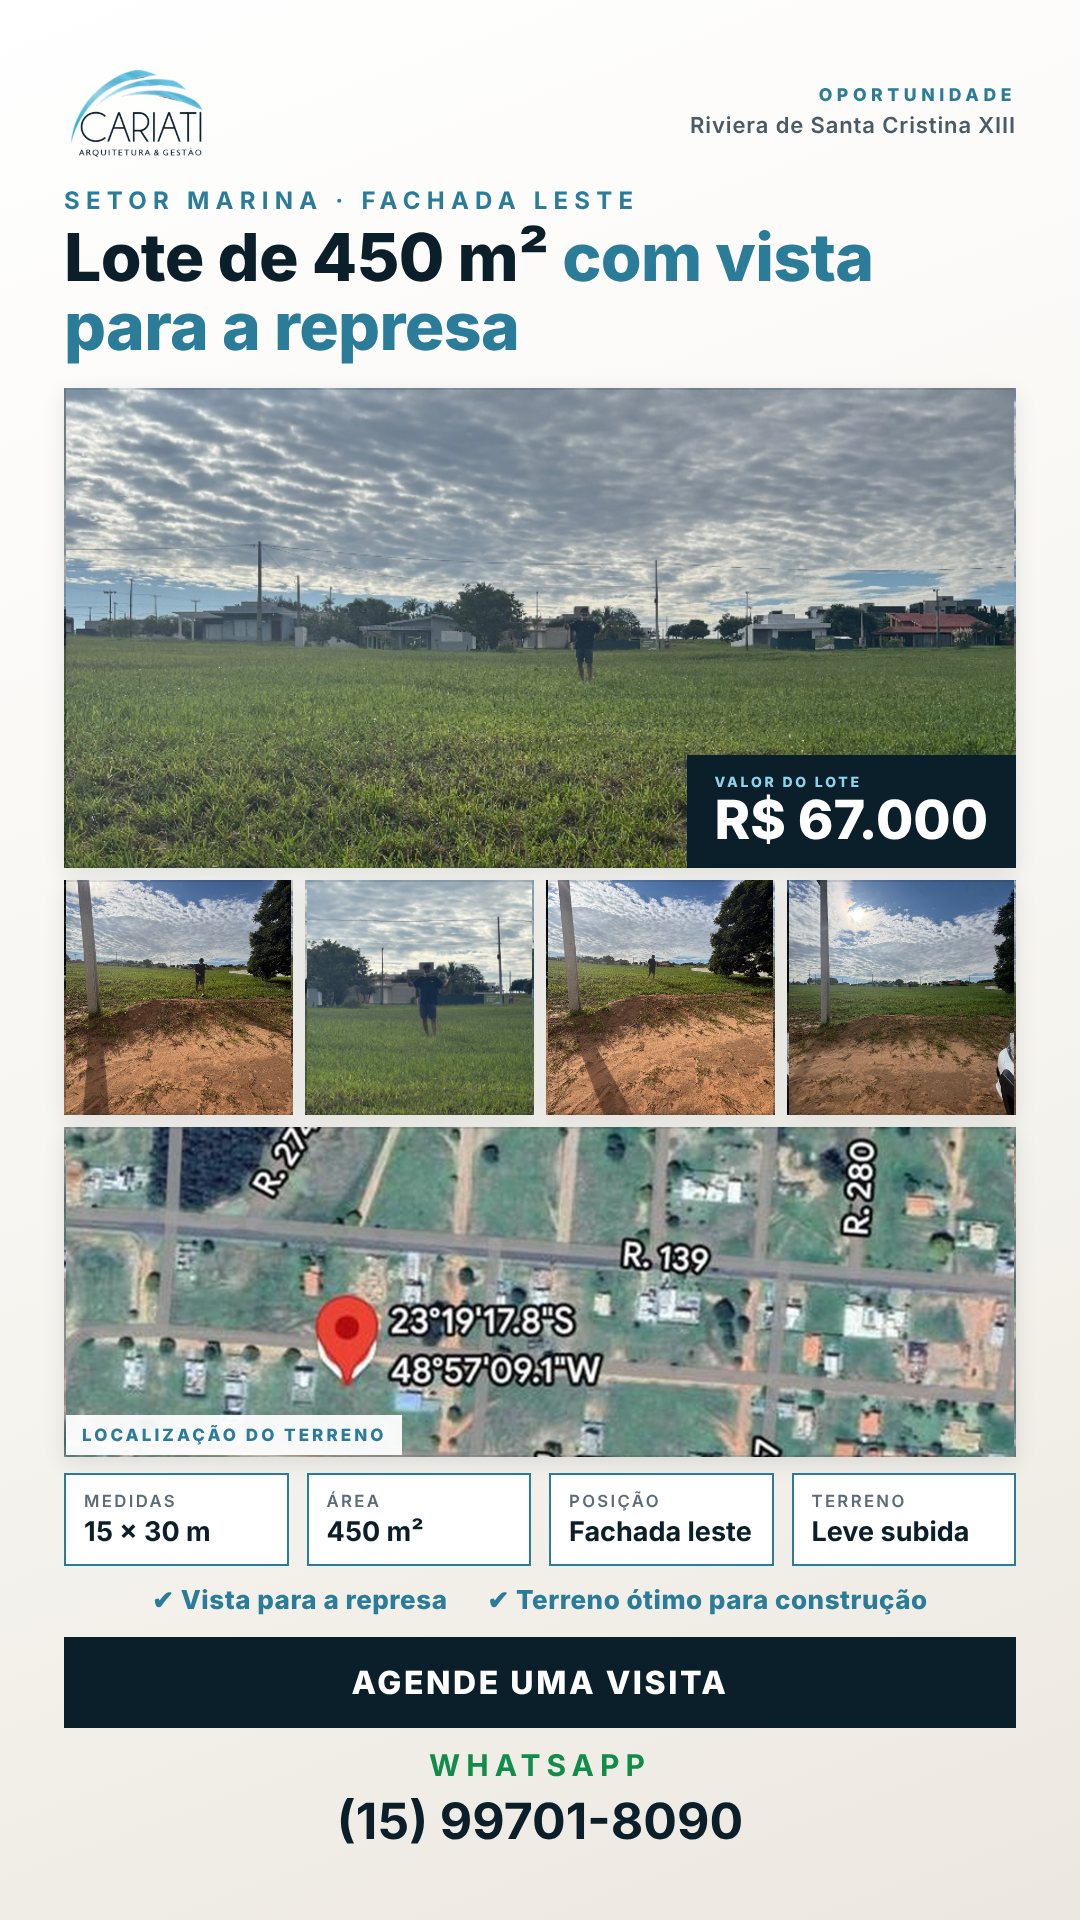
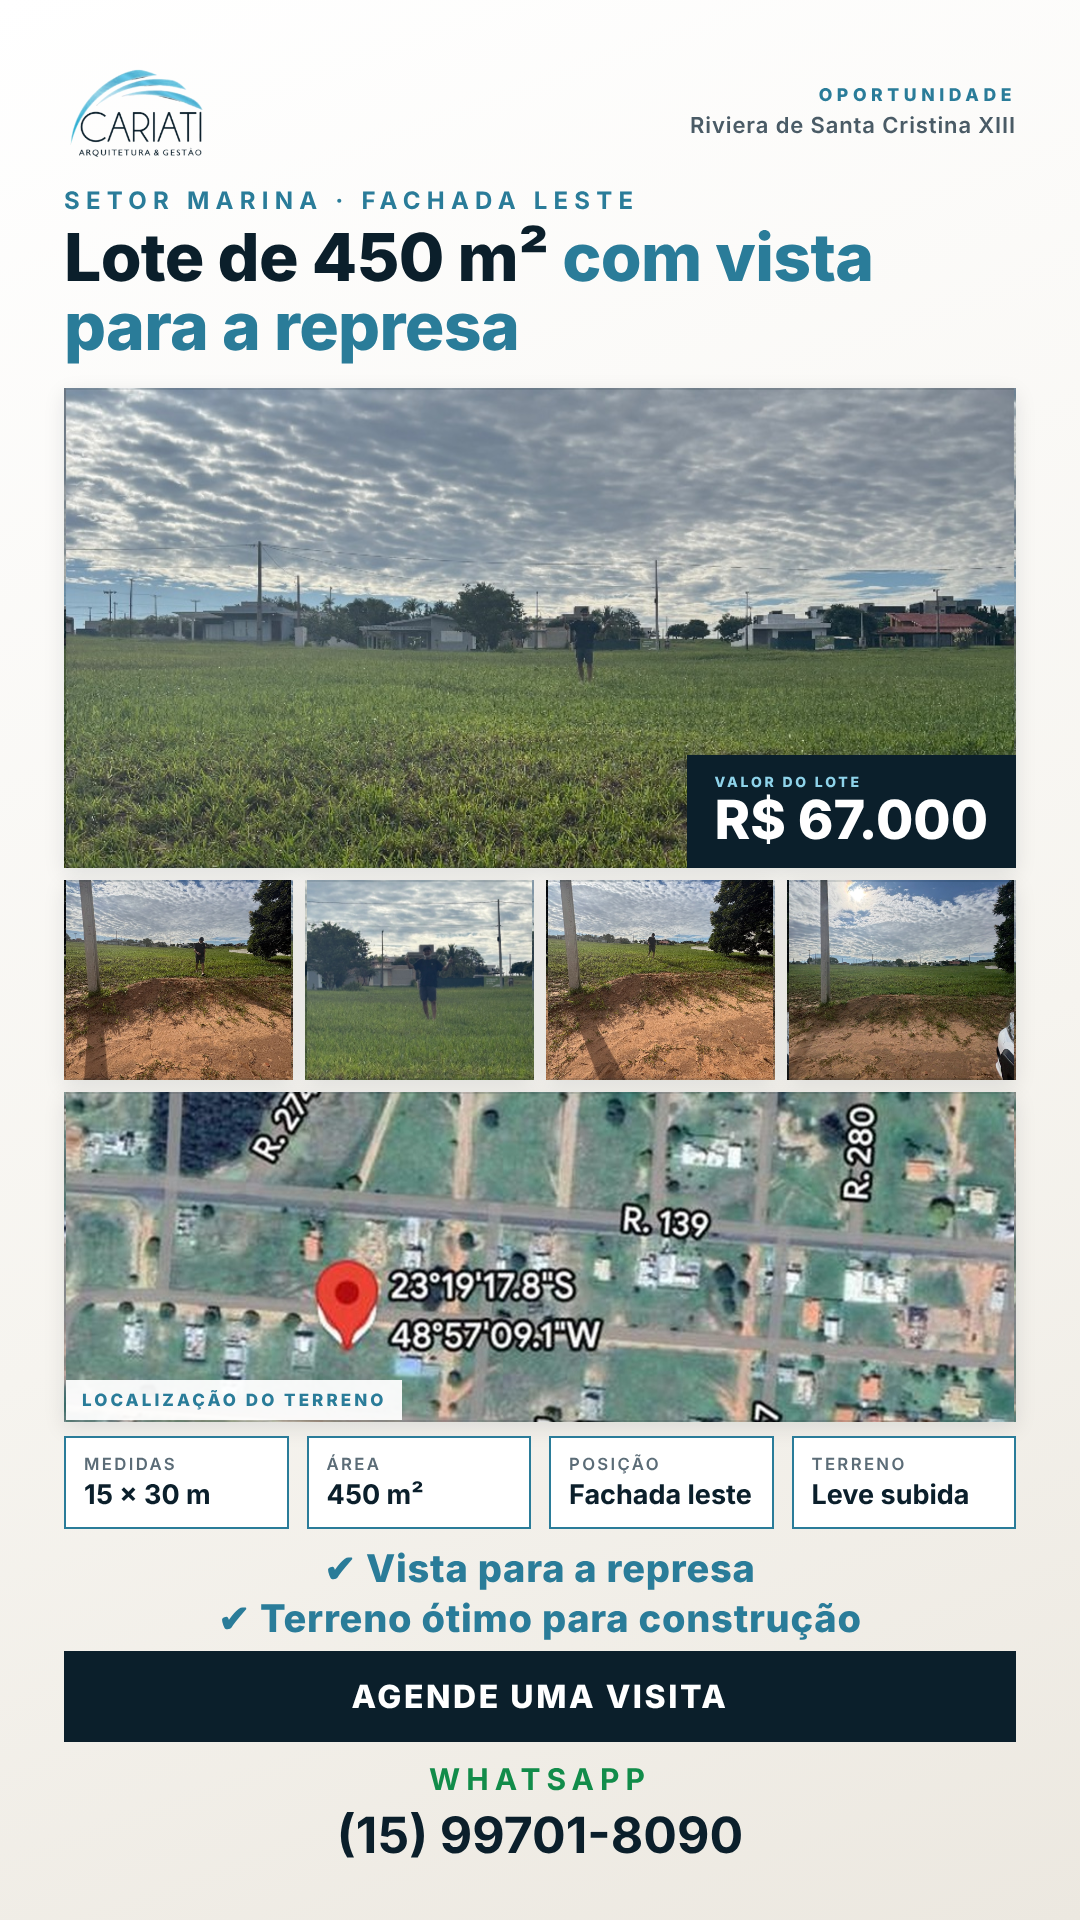
Lot ad: larger highlight text (lake view, great for building)
Claude-Session: https://claude.ai/code/session_012W4cPJrLBDcgKi33Cw4yCm

Changed region(s): [[0.0611, 0.4375, 0.9472, 0.9688]]

diff --git a/lote_riviera/build.py b/lote_riviera/build.py
@@ -41,7 +41,7 @@ def img(f,h,pos="center",extra="",inner="",w=""):
 def tag(t): return f"<div class=tg>{t}</div>"
 BADGE='<div class=pb><small>VALOR DO LOTE</small><b>R$ 67.000</b></div>'
 LCSS="""
-.hl{display:flex;justify-content:center;gap:40px;font-weight:800;color:#2a7c99;font-size:var(--hlf);letter-spacing:.02em}
+.hl{display:flex;justify-content:center;gap:34px;flex-wrap:nowrap;white-space:nowrap;font-weight:800;color:#2a7c99;font-size:var(--hlf);letter-spacing:.02em}
 
 .f{background:linear-gradient(160deg,#ffffff 0%,#f6f4ef 60%,#ece8e0 100%);color:#0b1f2b}
 .eb{color:#2a7c99}h1 em{color:#2a7c99}
@@ -53,6 +53,7 @@ LCSS="""
 .cta{background:#0b1f2b;color:#fff}
 .ph .wa{color:#128c4a}.ph{color:#0b1f2b}
 """
+HLV='<div class="hl z" style="flex-direction:column;align-items:center;gap:4px"><span>✔ Vista para a represa</span><span>✔ Terreno ótimo para construção</span></div>'
 HL='<div class="hl z"><span>✔ Vista para a represa</span><span>✔ Terreno ótimo para construção</span></div>'
 def th(f,h,pos): return img(f,h,pos,'flex:1')
 def build(w,h,v,vert):
@@ -63,16 +64,16 @@ def build(w,h,v,vert):
     if vert:
         body=(top+sp(26)+title+sp(26)
           +f"<div class=z style='position:relative;flex:none'>{img('foto1.jpg',480,'center 42%')}{BADGE}</div>"
-          +sp(12)+ths(235)+sp(12)
+          +sp(12)+ths(200)+sp(12)
           +f"<div class='z mp'>{img('mapa.jpg',330,'center 78%','','<div class=mt>LOCALIZAÇÃO DO TERRENO</div>')}</div>"
-          +sp(16)+chips(4)+sp(18)+HL+"<div style='flex:1'></div>"+sp(10)+'<div class="cta z">Agende uma visita</div>'+sp(16)+PH)
+          +sp(14)+chips(4)+sp(16)+HLV+"<div style='flex:1'></div>"+sp(10)+'<div class="cta z">Agende uma visita</div>'+sp(16)+PH)
     else:
         body=(top+sp(16)+title+sp(18)
           +f"<div class='z' style='display:flex;gap:14px;flex:none'><div style='flex:1.25;position:relative'>{img('foto1.jpg',330,'center 42%')}{BADGE}</div><div style='flex:1;position:relative'>{img('mapa.jpg',330,'center 80%','','<div class=mt>LOCALIZAÇÃO DO TERRENO</div>')}</div></div>"
           +sp(12)+ths(120)+sp(12)+chips(4)+sp(12)+HL+"<div style='flex:1'></div>"+sp(8)+'<div class="cta z">Agende uma visita</div>'+sp(12)+PH)
     return f"<html><head><meta charset=utf-8><style>{CSS}{LCSS}</style></head><body><div class=f style='--w:{w}px;--h:{h}px;{vs}'>{body}</div></body></html>"
-V=dict(hlf="26px",hrf="22px",mtf="17px",pbp="18px 28px",pbs="14px",pbf="54px",p="64px",ph="1000px",pp="center 40%",lh="96px",e="24px",h1="66px",pr="120px",g="18px",cp="16px 18px",cf="27px",c="32px",cb="26px",t="50px")
-S=dict(hlf="21px",hrf="17px",mtf="13px",pbp="10px 18px",pbs="11px",pbf="34px",p="48px",ph="470px",pp="center 40%",lh="64px",e="18px",h1="48px",pr="84px",g="12px",cp="10px 12px",cf="21px",c="24px",cb="16px",t="36px")
+V=dict(hlf="38px",hrf="22px",mtf="17px",pbp="18px 28px",pbs="14px",pbf="54px",p="64px",ph="1000px",pp="center 40%",lh="96px",e="24px",h1="66px",pr="120px",g="18px",cp="16px 18px",cf="27px",c="32px",cb="26px",t="50px")
+S=dict(hlf="29px",hrf="17px",mtf="13px",pbp="10px 18px",pbs="11px",pbf="34px",p="48px",ph="470px",pp="center 40%",lh="64px",e="18px",h1="48px",pr="84px",g="12px",cp="10px 12px",cf="21px",c="24px",cb="16px",t="36px")
 (root/"html").mkdir(exist_ok=True); import json; jobs=[]
 for tag,(w,h,v,vert) in {"vertical_1080x1920":(1080,1920,V,True),"quadrado_1080x1080":(1080,1080,S,False)}.items():
     f=f"anuncio_lote_{tag}"; (root/"html"/f"{f}.html").write_text(build(w,h,v,vert)); jobs.append(dict(f=f,w=w,h=h))
